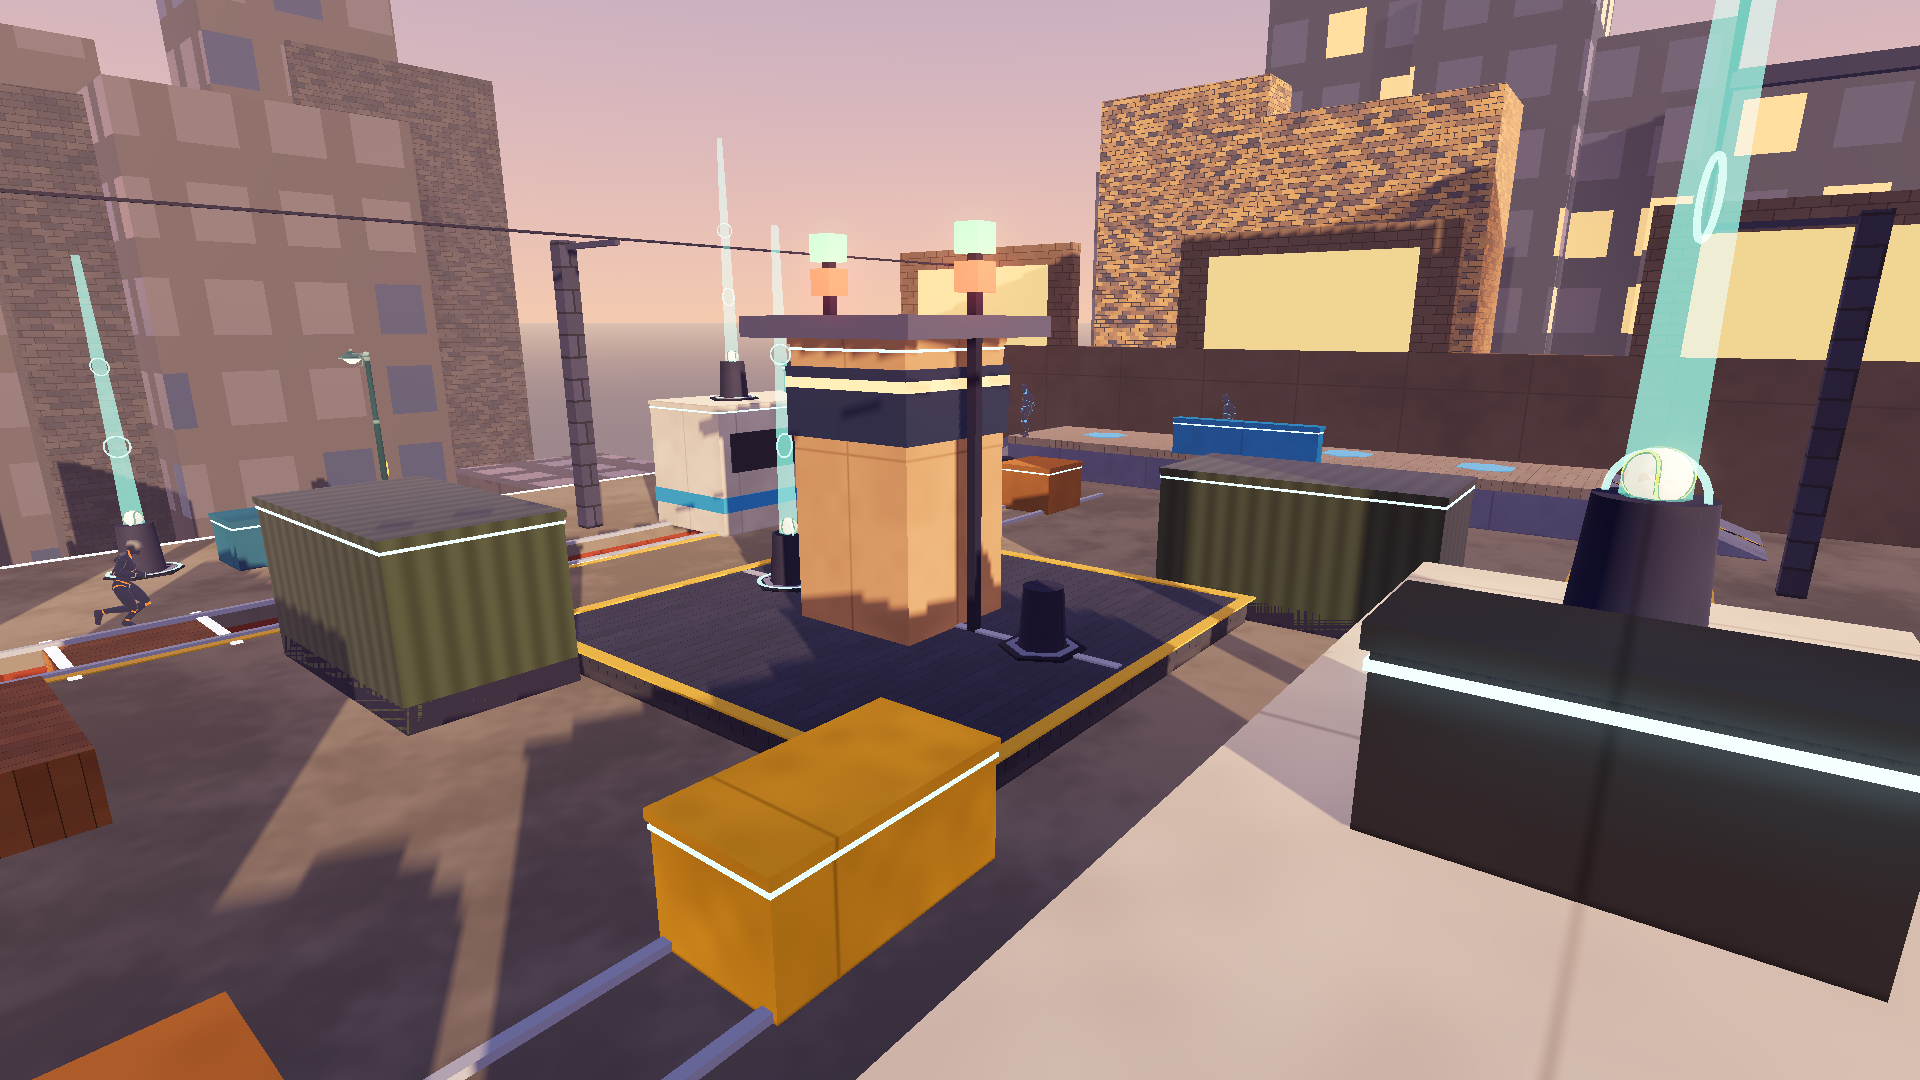
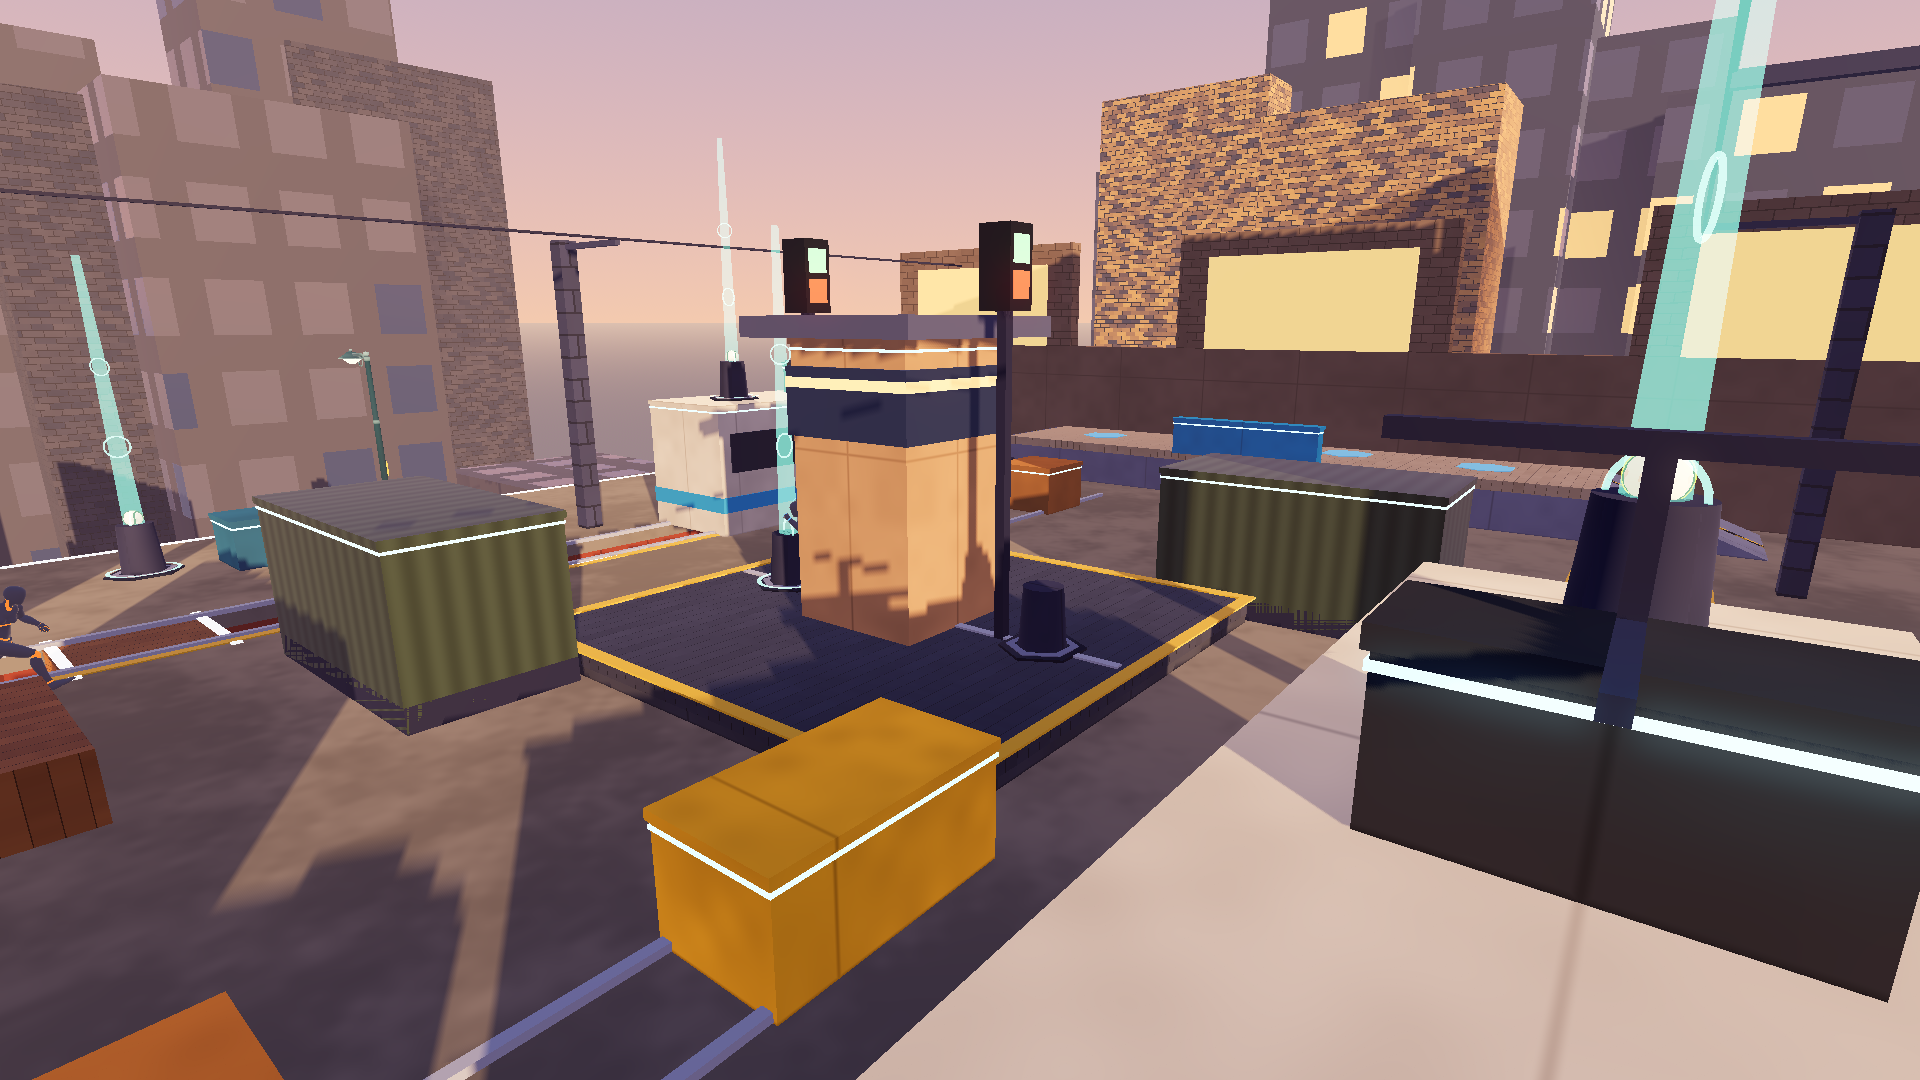
Le Dépôt, 3e revue : fente de fosse fermée derrière le tram, vrais signaux
- plaque de fosse (chevrons jaunes) sur la fente cachée par le tram depuis
  le quai : plus de chute qu'on ne voit pas venir ;
- mâts de signal sortis du toit du poste, têtes de signal noires, rouge
  plus franc ;
- pantographe habillé (bras, archet sous le fil), plaque de danger sur
  l'armoire.
Test bots : 79 tirs, aucune chute.

Claude-Session: https://claude.ai/code/session_01JqDGHfY1Ly5jn7p42vhJBj

diff --git a/tools/maps/arenas.py b/tools/maps/arenas.py
@@ -322,7 +322,14 @@ def depot():
     for zz in (-10.4, -2.6):   # nez arrondis suggérés : feux
         a.deco(x=-9, y=0.9, z=zz, sx=1.6, sy=0.25, sz=0.1, color="#FFE9B0", glow=1.4, pattern=0)
     a.block("pantographe", "low", -9, -6.5, 1.4, 0.6, 3.8, 3.0, color="#3A3F4A")   # demi-couvert sur le toit (bloque balles et joueurs)
+    a.deco(x=-9, y=3.8, z=-6.5, sx=0.08, sy=0.08, sz=1.6, color="#2E3350", pattern=0)            # bras
+    a.deco(x=-9, y=4.4, z=-6.5, sx=1.6, sy=0.08, sz=0.08, color="#2E3350", pattern=0)                    # archet sous le fil
+    a.deco(x=-9, y=3.8, z=-6.5, sx=0.08, sy=0.6, sz=0.08, color="#2E3350", pattern=0)                    # montant
     a.pad("tremplin_tram", -13.2, -12.5, 0, -9, -8.5, 3.0, apex=1.5)
+    # Plaque de fosse derrière le cul du tram : la fente que le tram cache depuis le quai est fermée (pas de chute invisible).
+    a.block("plaque_fosse", "bridge", -9, -11.25, 2.4, 1.5, 0, -0.4, color="#6E7487")
+    for dz in (-0.35, 0.35):
+        a.deco(x=-9, y=0.01, z=-11.25 + dz, sx=1.4, sy=0.02, sz=0.18, color="#F2C230", pattern=0)   # chevrons
     # Balle sur le toit, côté nez avant (z -4) : la récompense est au bout exposé, à un tacle de la fosse.
     a.ball("balle_toit_tram", -9, -4.0, 3.0 + 0.9, interval=14)
     # Passerelle sur la fosse droite (ouverte de ce côté-ci) : 2 m de large.
@@ -346,6 +353,7 @@ def depot():
     a.deco(x=4.5, y=0, z=-5.2, sx=4.4, sy=0.35, sz=2.2, color="#2E3350", pattern=0)   # châssis du wagon, dans la boîte de collision
     a.block("bidons", "cover", 13.6, -4.6, 1.4, 1.4, 1.0, 0, color="#2F6F8F")
     a.block("armoire", "container", 15.2, -10.5, 1.2, 1.2, 2.4, 0, color="#5A6B5A")   # repli du couloir extérieur droit
+    a.deco(x=15.2, y=1.6, z=-9.88, sx=0.4, sy=0.4, sz=0.03, color="#F2C230", pattern=0)   # plaque de danger, face au centre
     a.block("caisses_quai", "crate", -14.2, -9.5, 1.6, 1.6, 1.1, 0, model="caisse_bois")
     # Plaque tournante au centre (0,4 m, se monte en marchant) et poste d'aiguillage : coupe la vue d'un camp à l'autre.
     a.block("plaque_tournante", "deck", 0, 0, 8, 8, 0.4, -0.6, mirror=False, color="#4E5262")
@@ -358,9 +366,10 @@ def depot():
     a.deco(x=0, y=3.9, z=0, sx=2.34, sy=0.15, sz=2.34, color="#FFC46A", glow=1.2, pattern=0, mirror=False)  # lumière chaude de la cabine
     a.deco(x=0, y=4.6, z=0, sx=3.2, sy=0.3, sz=3.2, color="#5A6180", pattern=0, mirror=False)    # toit du poste, débordant
     # Mâts de signal (décor) de part et d'autre : feux rouge et vert lisibles de loin.
-    a.deco(x=1.4, y=0.4, z=0, sx=0.15, sy=5.6, sz=0.15, color="#2E3350", pattern=0)
-    a.deco(x=1.4, y=5.2, z=0, sx=0.4, sy=0.4, sz=0.4, color="#FF3B30", glow=2.0, pattern=0)
-    a.deco(x=1.4, y=5.7, z=0, sx=0.4, sy=0.4, sz=0.4, color="#3BE07A", glow=2.0, pattern=0)
+    a.deco(x=1.9, y=0.4, z=0, sx=0.15, sy=5.6, sz=0.15, color="#2E3350", pattern=0)
+    a.deco(x=1.9, y=4.95, z=0, sx=0.5, sy=1.1, sz=0.5, color="#1E2230", pattern=0)                  # tête de signal
+    a.deco(x=1.9, y=5.1, z=0, sx=0.52, sy=0.36, sz=0.36, color="#E0201A", glow=2.5, pattern=0)
+    a.deco(x=1.9, y=5.55, z=0, sx=0.52, sy=0.36, sz=0.36, color="#3BE07A", glow=2.0, pattern=0)
     # Places : 4 par équipe sur le quai.
     for x, z in [(-2, -16.6), (2, -16.6), (-5.5, -16.2), (5.5, -16.2)]:
         a.spawn(x, z)
